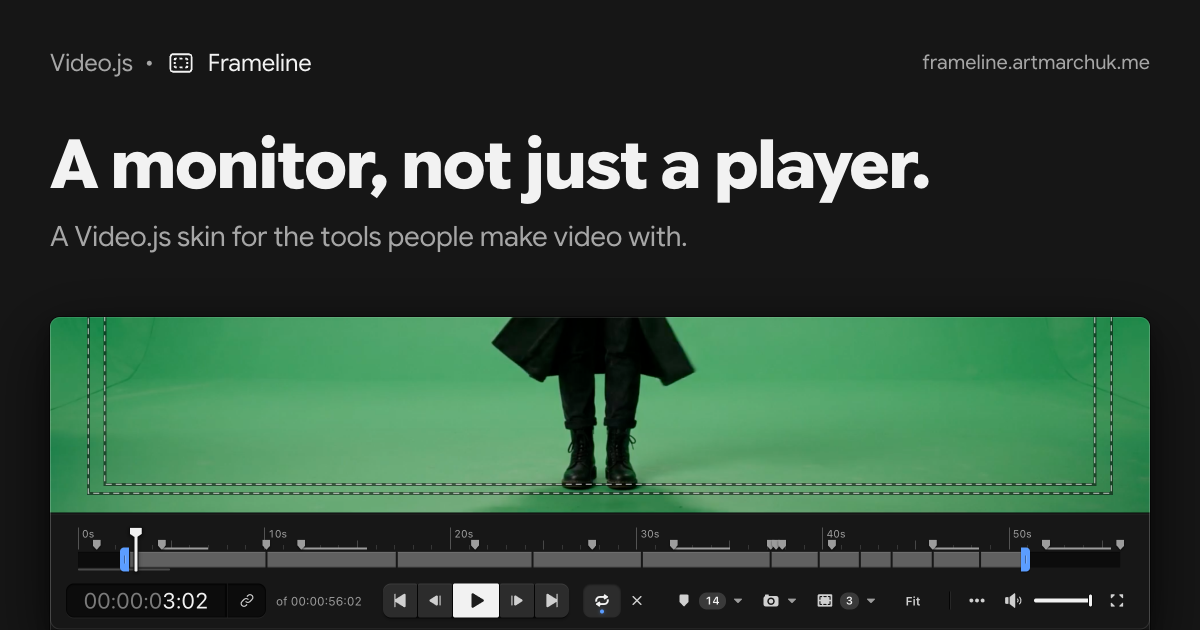
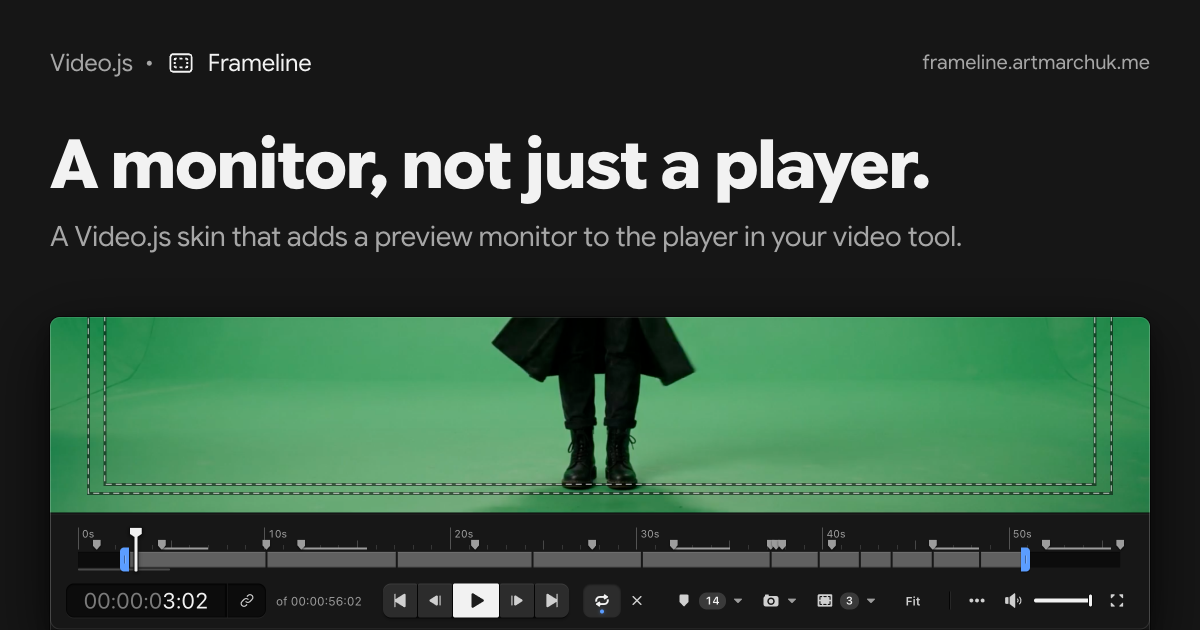
Landing page: head tags, social card and footer copy from the Brand content doc

Changed region(s): [[0.185, 0.3619, 0.8017, 0.3921]]

diff --git a/apps/preview/index.html b/apps/preview/index.html
@@ -3,10 +3,10 @@
   <head>
     <meta charset="UTF-8" />
     <meta name="viewport" content="width=device-width, initial-scale=1" />
-    <title>Frameline — a Video.js skin for video creators</title>
+    <title>Frameline — a Video.js skin for video tools</title>
     <meta
       name="description"
-      content="Frameline is a Video.js v10 skin that adds a preview monitor to the player in your video tool: frame-by-frame transport, timecode, In and Out points, guides, zoom and frame grabs."
+      content="Adds a preview monitor to the player in your editor, AI generator or review tool: timecode, frame stepping, In/Out loops, safe areas, platform crops and zoom."
     />
     <meta name="author" content="Artem Marchuk" />
     <link rel="canonical" href="https://frameline.artmarchuk.me/" />
@@ -16,10 +16,10 @@
 
     <!-- The social image has to be an absolute URL. Change the host here if the site moves. -->
     <meta property="og:type" content="website" />
-    <meta property="og:title" content="Frameline" />
+    <meta property="og:title" content="Frameline — a monitor, not just a player." />
     <meta
       property="og:description"
-      content="A Video.js skin for the tools people make video with."
+      content="Frameline is an open-source Video.js skin for web video editors, AI video generators and review tools. Viewer is a clean player; Studio is a preview monitor."
     />
     <meta property="og:url" content="https://frameline.artmarchuk.me/" />
     <meta property="og:image" content="https://frameline.artmarchuk.me/og.png" />
@@ -27,16 +27,16 @@
     <meta property="og:image:height" content="630" />
     <meta
       property="og:image:alt"
-      content="The Frameline card: the Video.js and Frameline lockup, the line “A monitor, not just a player.” and “A Video.js skin for the tools people make video with.”, above the Studio dock with the timecode on 00:00:03:02, a range across most of the timeline and Loop on, under the lower edge of a green-screen picture with the Action safe and Title safe lines."
+      content="Frameline — A monitor, not just a player. A Video.js skin that adds a preview monitor to the player in your video tool. The Studio dock under a green-screen picture."
     />
     <meta name="twitter:card" content="summary_large_image" />
-    <meta name="twitter:title" content="Frameline" />
+    <meta name="twitter:title" content="Frameline — a monitor, not just a player." />
     <meta
       name="twitter:description"
-      content="A Video.js skin for the tools people make video with."
+      content="Frameline is an open-source Video.js skin for web video editors, AI video generators and review tools. Viewer is a clean player; Studio is a preview monitor."
     />
     <meta name="twitter:image" content="https://frameline.artmarchuk.me/og.png" />
-    <meta name="twitter:image:alt" content="The Frameline card: the Video.js and Frameline lockup, the line “A monitor, not just a player.” and “A Video.js skin for the tools people make video with.”, above the Studio dock with the timecode on 00:00:03:02, a range across most of the timeline and Loop on, under the lower edge of a green-screen picture with the Action safe and Title safe lines." />
+    <meta name="twitter:image:alt" content="Frameline — A monitor, not just a player. A Video.js skin that adds a preview monitor to the player in your video tool. The Studio dock under a green-screen picture." />
 
     <link rel="preconnect" href="https://fonts.googleapis.com" />
     <link rel="preconnect" href="https://fonts.gstatic.com" crossorigin />
@@ -393,7 +393,7 @@ frameline.current?.setRange({ in: 12, out: 16 });</code></pre>
           <li><a href="https://github.com/artmarchuk/videojs-frameline">GitHub</a></li>
           <li>Apache 2.0</li>
         </ul>
-        <p>Designed and built by <a href="https://artmarchuk.me">Artem Marchuk</a></p>
+        <p>Designed by <a href="https://artmarchuk.me">Artem Marchuk</a></p>
       </div>
     </footer>
 

diff --git a/NOTES.md b/NOTES.md
@@ -2083,3 +2083,17 @@ Screenshots: `design/screenshots/theme-c6/` (`c-*` is `theme-c` before C.6, `c6-
 - **Tags:** `og:title` and `twitter:title` "Frameline"; `og:description` and `twitter:description` the category line; `og:image:alt` describes the card, and `twitter:image:alt` is new with the same text. Words from the Brand content doc ("Social preview (Open Graph): Title: Frameline. Description: the category line"); the doc and the Backlog item agree.
 - **Not changed, and the doc disagrees:** the doc's placement for the page title and meta description is "Frameline — A Video.js skin for the tools people make video with." (status "Check"). The page has `<title>Frameline — a Video.js skin for video creators</title>` and a meta description built on the descriptor (set on 18 Nov at the author's request). Left for the author.
 
+
+## Landing page: copy from the Brand content doc (18 Nov 2026, branch `landing-visuals`, preview only)
+
+Spec: `specs/landing-copy.md`. The page's head tags, social card and footer now follow the doc; no layout or skin changes. This replaces the tag wording in the section above and settles its "Not changed, and the doc disagrees" line.
+
+- **`<title>`:** "Frameline — a Video.js skin for video tools" (43 characters).
+- **Meta description:** "Adds a preview monitor to the player in your editor, AI generator or review tool: timecode, frame stepping, In/Out loops, safe areas, platform crops and zoom." (158 characters; the spec asks for about 155.)
+- **`og:title`, `twitter:title`:** "Frameline — a monitor, not just a player."
+- **`og:description`, `twitter:description`:** "Frameline is an open-source Video.js skin for web video editors, AI video generators and review tools. Viewer is a clean player; Studio is a preview monitor."
+- **`og:image:alt`, `twitter:image:alt`:** "Frameline — A monitor, not just a player. A Video.js skin that adds a preview monitor to the player in your video tool. The Studio dock under a green-screen picture."
+- **`og.png`:** the line under the tagline is now the descriptor, "A Video.js skin that adds a preview monitor to the player in your video tool." It fits on one line at the same 28px size. `scripts/og-image.mjs` now sets `text-wrap: balance` on that line, logs how many lines it took, and stops if the line runs into the dock crop. Everything else on the card is unchanged.
+- **Footer:** "Designed by Artem Marchuk", with the name still linking to artmarchuk.me.
+- **Checks:** typecheck, 225 tests, build, `contrast.mjs` (82 PASS, 0 FAIL), the landing check (`configurator.js`, pass true; the runner must grant clipboard permission or `copied` fails), axe on the site root at 1440 and 390 (0 violations). No script or check tests the changed strings.
+- **Unverified:** the social card in real link previews (X, LinkedIn, Slack). The preview is behind the Vercel login, so external validators can't read it until production.

diff --git a/specs/landing-copy.md b/specs/landing-copy.md
@@ -1,0 +1,37 @@
+# Landing page: copy from the Brand content doc
+
+The "Frameline Brand Content" doc in the claude.ai project holds the approved wording; where the page differs, the doc wins. This change brings the page's head tags, social card and footer in line with it. No layout or skin changes.
+
+Continue on `landing-visuals`. Deploy a preview; the author merges.
+
+## Changes
+
+| Where | Now | Change to |
+|---|---|---|
+| `<title>` | Frameline — a Video.js skin for video creators | Frameline — a Video.js skin for video tools |
+| `<meta name="description">` | Frameline is a Video.js v10 skin that adds a preview monitor … zoom and frame grabs. | Adds a preview monitor to the player in your editor, AI generator or review tool: timecode, frame stepping, In/Out loops, safe areas, platform crops and zoom. |
+| `og:title`, `twitter:title` | Frameline | Frameline — a monitor, not just a player. |
+| `og:description`, `twitter:description` | A Video.js skin for the tools people make video with. | Frameline is an open-source Video.js skin for web video editors, AI video generators and review tools. Viewer is a clean player; Studio is a preview monitor. |
+| Social card image (`og.png`), the line under the tagline | A Video.js skin for the tools people make video with. | A Video.js skin that adds a preview monitor to the player in your video tool. |
+| `og:image:alt`, `twitter:image:alt` | The Frameline card: … (about 50 words) | Frameline — A monitor, not just a player. A Video.js skin that adds a preview monitor to the player in your video tool. The Studio dock under a green-screen picture. |
+| Footer credit | Designed and built by Artem Marchuk | Designed by Artem Marchuk (the name still links to artmarchuk.me) |
+
+Copy every line character for character, including the em dashes, the slash in "In/Out" and the full stops.
+
+## The card image
+
+- Regenerate `og.png` with `scripts/og-image.mjs`, with the descriptor as its second line. Everything else on the card stays.
+- The descriptor is longer than the old line. It must fit on one line at the card's current size; if it doesn't, wrap it to two balanced lines rather than shrinking the type. Report which.
+
+## Already right, leave as they are
+
+The H1 ("A monitor, not just a player.") and the line under it ("A Video.js skin that adds a preview monitor to the player in your video tool.").
+
+If a script or check writes or tests any of the changed strings, update it too. Note the change in `NOTES.md`.
+
+## Verify
+
+1. The built page's `<head>`: paste the changed lines into the report. Count the title (60 characters at most) and the meta description (about 155).
+2. `og.png` opened and looked at.
+3. The footer at 1440 and 390 px.
+4. Typecheck, tests, build, the landing check.
